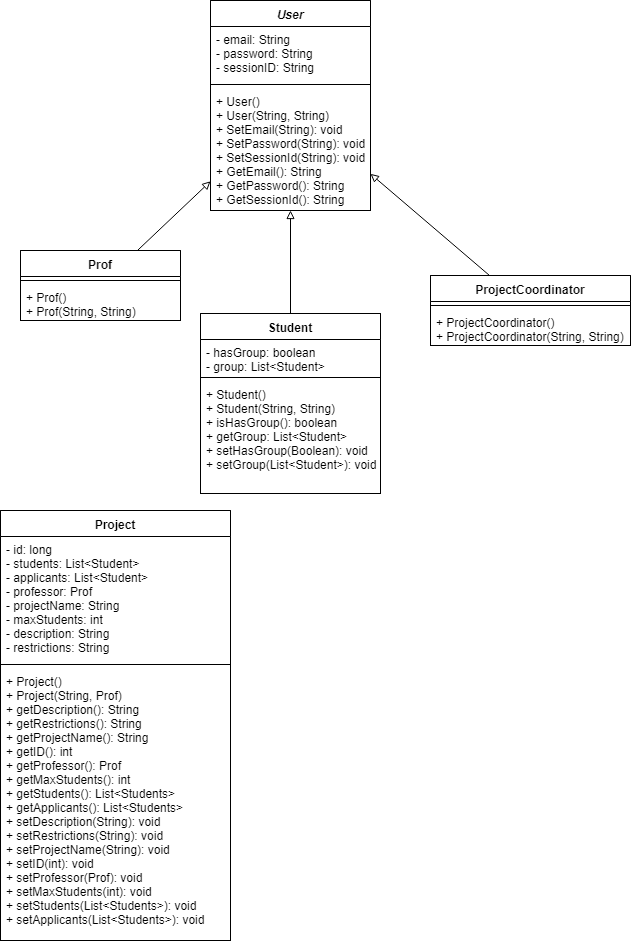
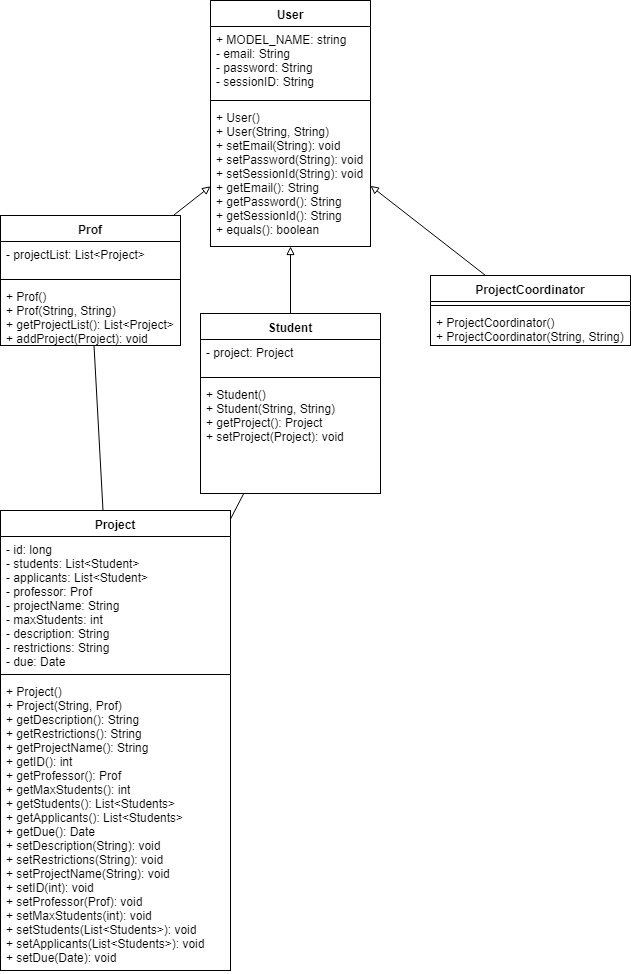
Update UML, add ORM made prof project list private, added getDue to project

diff --git a/src/test/java/sysc4806/pm4y/models/ProjectTest.java b/src/test/java/sysc4806/pm4y/models/ProjectTest.java
@@ -23,9 +23,9 @@ public class ProjectTest {
 
     @Test
     public void testConstructor() {
-        /*p = new Project(name, prof);
-        Assert.assertEquals(prof, p.getProfessor());
-        Assert.assertEquals(name, p.getProjectName());*/
+        p = new Project(name, prof);
+        Assert.assertSame(prof, p.getProfessor());
+        Assert.assertEquals(name, p.getProjectName());
     }
 
     @Test

diff --git a/src/main/java/sysc4806/pm4y/models/Prof.java b/src/main/java/sysc4806/pm4y/models/Prof.java
@@ -8,7 +8,7 @@ import java.util.List;
 public class Prof extends User
 {
     @OneToMany
-    List<Project> projectList;
+    private List<Project> projectList;
 
     public Prof() {
     }

diff --git a/src/main/java/sysc4806/pm4y/models/Project.java b/src/main/java/sysc4806/pm4y/models/Project.java
@@ -128,4 +128,8 @@ public final class Project
         this.due = dueDate;
     }
 
+    public Date getDue() {
+        return due;
+    }
+
 }
